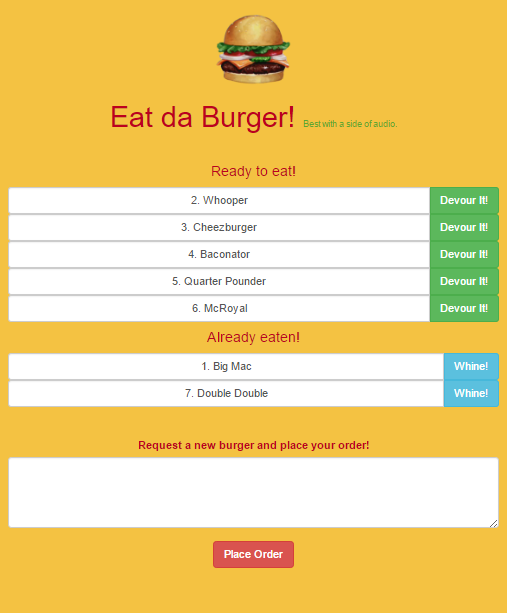
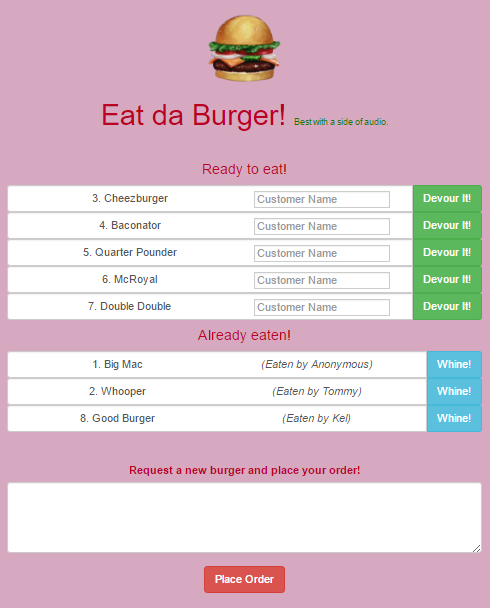
fully functional on localhost!

diff --git a/controllers/burgers_controllers.js b/controllers/burgers_controllers.js
@@ -30,26 +30,16 @@ router.get('/', function (req, res) {
 // Index Page (render all burgers to DOM)
 router.get('/index', function (req, res) {
 
-  // Sequelize Query to get all burgers from database
+  // Sequelize Query to get all burgers from database (and join them to their devourers, if applicable)
   models.burgers.findAll({
-   include: [{model: models.devourers, as: 'devourer_id'}]
+   include: [{model: models.devourers}]
   }).then(function(data){
 
-// User.findAll({
-//   include: [{
-//     model: Project,
-//     through: {
-//       attributes: ['createdAt', 'startedAt', 'finishedAt'],
-//       where: {completed: true}
-//     }
-//   }]
-// });
-//console.log(data)
-
+    // Pass the returned data into a Handlebars object and then render it
     var hbsObject = { burgers: data };
     // console.log(data);
     res.render('index', hbsObject);
-// res.json(data)
+
   })
 
 });
@@ -77,9 +67,15 @@ router.post('/burger/create', function (req, res) {
 // Devour a Burger
 router.post('/burger/eat/:id', function (req, res) {
 
-  // Create a new burger devourer
+  // If not name was added, make it "Anonymous"
+  if(req.body.burgerEater == "" || req.body.burgerEater == null){
+    req.body.burgerEater = "Anonymous";
+  }
+
+  // Create a new burger devourer (and also associate it to the eaten burger's id)
   models.devourers.create({
-    devourer_name: req.body.burgerEater
+    devourer_name: req.body.burgerEater,
+    burgerId: req.params.id
   })
 
   // Then, select the eaten burger by it's id
@@ -89,14 +85,7 @@ router.post('/burger/eat/:id', function (req, res) {
 
     // Then, use the returned burger object to...
     .then(function(eatenBurger){
-      console.log('----------- new eater ---------------')
-      console.log(newDevourer)
-            console.log('----------- new burger ---------------')
-      console.log(eatenBurger)
-      // 1 - Associate the devourer with the burger 
-      //newDevourer.setBurger(eatenBurger)
-     // eatenBurger.setDevourer(newDevourer)
-      // 2 - Update the burger's status to devoured
+      // ... Update the burger's status to devoured
       eatenBurger.update({
         devoured: true,
       })

diff --git a/models/burgers.js b/models/burgers.js
@@ -14,10 +14,8 @@ module.exports = function(sequelize, DataTypes) {
   }, {
     classMethods: {
       associate: function(models) {
-        // The burger has a 1 to 1 relationship, so nothing needs to be specified here
-        // burgers.hasOne(models.devourers);
-        burgers.belongsTo(models.devourers, { as: 'devourer_id', foreignKey: 'id' , foreignKeyConstraint:true })
-
+        // Each of the burgers has one of the devourers associated with it (key is stored on the devourer)
+        burgers.hasOne(models.devourers)
       }
     }
   });

diff --git a/models/devourers.js b/models/devourers.js
@@ -13,8 +13,8 @@ module.exports = function(sequelize, DataTypes) {
   }, {
     classMethods: {
       associate: function(models) {
-        // Each of the devourers belongs to one of the burgers
-        devourers.hasOne(models.burgers, { as: 'devourer_id', foreignKey: 'id' , foreignKeyConstraint:true });
+        // This does not need to be included, the hasOne() function in the burger model takes care of it
+        // devourers.belongsTo(models.burgers);
       }
     }
   });

diff --git a/migrations/20161114002210-create-devourers.js b/migrations/20161114002210-create-devourers.js
@@ -11,6 +11,16 @@ module.exports = {
       devourer_name: {
         type: Sequelize.STRING
       },
+      // Foreign key usage (added manually)
+      burgerId: {
+          type: Sequelize.INTEGER,
+          references: {
+              model: 'burgers',
+              key: 'id'
+          },
+          onUpdate: 'cascade',
+          onDelete: 'cascade'
+      },
       createdAt: {
         allowNull: false,
         type: Sequelize.DATE

diff --git a/views/layouts/test.html b/views/layouts/test.html
@@ -33,7 +33,7 @@
 
       <!-- Page Title -->
       <center>
-        <h1 class="red_font">Eat da Burger! <small class="tiny_text">Best with a side of sound.</small></h1>
+        <h1 class="red_font">Eat da Burger II! <small class="tiny_text">Best with a side of sound.</small></h1>
       </center>
       
       <br>

diff --git a/public/assets/css/burger_style.css b/public/assets/css/burger_style.css
@@ -5,7 +5,8 @@
 
 
 body {
-  background-color: #f4c242;
+  /*background-color: #f4c242;*/
+  background-color: #d6a9c1;
 }
 
 img {
@@ -18,7 +19,8 @@ img {
 
 .tiny_text {
   font-size: 11px;
-  color: #5da82f;
+  /*color: #5da82f;*/
+  color: #087c00;
 }
 
 .bugerEaterTextBox {

diff --git a/README.md b/README.md
@@ -3,23 +3,45 @@
 
 ### Overview
 A Node, Express, Handlebars, and MySQL burger app that lets users input the names of burgers they'd like to eat... and then devour them!
+
 This app is a remake of the original Burger repo found [here](https://github.com/tomtom28/burger). 
-The key difference is that is uses the Sequelize ORM rather than raw MySQL queries.
+The key difference is that is uses the **Sequelize ORM** rather than raw MySQL queries.
+And, using Sequelize, the app is now relational, tracking which users ate which burger.
+
+Please try out the deployed app in Heroku, found [here](http://eat-da-burgerz-2.herokuapp.com).
 
 
 ### Functionality
 Using the Sequelize ORM, the app has 3 basic CRUD functions...
   1. READ all entries from the MySQL database and display them to the DOM using Handlebars.
+    * note that at a SQL join is used to match each devoured burger to its respective customer. 
   2. UPDATE a selected burger by clicking "Devour It", which...
-    * hits an `/burger/eat/:id` route in Express to change its "devoured" status in the MySQL database
+    * hits an `/burger/eat/:id` route in Express to change its "devoured" status in the MySQL database (via Sequelize ORM)
     * re-routes the webpage back to the index, where the burger is now in the devoured column (via Handlebars)
   3. CREATE a new burger using the "Place Order" form, which...
-    * hits a `/burger/create` route in Express to insert a new burger into the MySQL database
+    * hits a `/burger/create` route in Express to insert a new burger into the MySQL database (via Sequelize ORM)
     * re-routes the webpage back to the index, where the burger is now ready to be eaten column (via Handlebars)
+
+
+### Cloning down the repo
+If you wish to clone the app down to your local machine...
+
+1. Use MySQL Workbench to create a database called `burgers_db`:
+  * The raw SQL query is `CREATE DATABASE burgers_db;`.
+2. Inside the `config` folder, open up the `config.json` file:
+  * In the `development` object, add your MySQL localhost `password`.
+3. In your terminal, `cd` into the project folder and run:
+  * `npm install` to download all node.js dependencies
+  * `sequelize db:migrate && sequelize db:seed:all` to migrate/seed the database via Sequelize
+4. Finally, you can run the programming using:
+  * `node server.js` in the terminal to start the node server
+  * And navigating to `localhost:3000` in your browser.
 
 
 ### Just for Fun
 The app also has a funny "Whine" feature, where random sound effects are played to grieve a devoured burger. This feature uses jQuery click listeners.
+
+If a customer does not enter their name upon devouring a burger, it will default to "Anynomous".
 
 Lastly, the app's front-end design uses Bootstrap. This means that your burgers look just as tasty on mobile as they do on desktop. Please see the screenshots below...
 
@@ -31,3 +53,9 @@ Lastly, the app's front-end design uses Bootstrap. This means that your burgers 
 
 - Mobile View
   * ![Mobile Size](/screenshots/mobile.png)
+
+
+### For the truly curious
+The Sequelize `models` were generated using the Sequelize CLI (**c**ommand **l**ine **i**nterface).
+
+For more information regarding those nifty commands, please refer to the `schema.sql` file inside the `db` folder.
